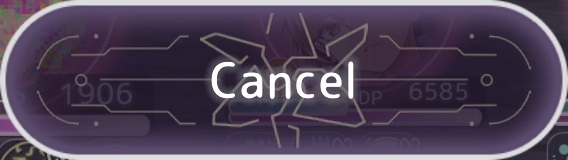
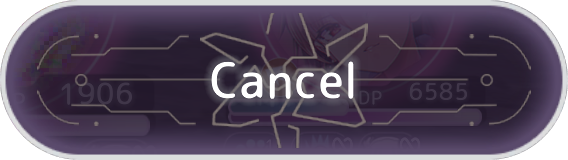
feat: ocr improvements to support alpha channel

diff --git a/standard/utils/PrintScreenUtil.py b/standard/utils/PrintScreenUtil.py
@@ -38,8 +38,18 @@ def find_target_on_screen(target_img, dx, dy, d_width, d_height):
         print("❌ Loaded target image data is empty")
         return False
 
-    # Perform template matching using OpenCV
-    result = cv2.matchTemplate(screenshot, target_img, cv2.TM_CCOEFF_NORMED)
+    # Check if the template has an alpha channel (4 channels) safely
+    if len(target_img.shape) == 3 and target_img.shape[2] == 4:
+        # Split channels: BGR color layers and the Alpha transparency mask layer
+        template_color = cv2.cvtColor(target_img, cv2.COLOR_BGRA2BGR)
+        mask = target_img[:, :, 3]
+        
+        # Match using the transparency mask layout
+        result = cv2.matchTemplate(screenshot, template_color, cv2.TM_CCOEFF_NORMED, mask=mask)
+    else:
+        # Fallback regular match if the image has no alpha layer
+        result = cv2.matchTemplate(screenshot, target_img, cv2.TM_CCOEFF_NORMED)
+
     min_val, max_val, min_loc, max_loc = cv2.minMaxLoc(result)
 
     if max_val >= 0.8:

diff --git a/standard/utils/ComparePicUtil.py b/standard/utils/ComparePicUtil.py
@@ -3,14 +3,13 @@ import cv2
 from standard.utils import PrintScreenUtil
 
 # Pre-load the target images into RAM memory exactly once when the module imports
-START_BUTTON_IMG = cv2.imread("static/startActionButton.png", cv2.IMREAD_COLOR)
-BATTLE_RESULT_IMG = cv2.imread("static/battleResultIcon.png", cv2.IMREAD_COLOR)
-OVERDRIVE_READY_IMG = cv2.imread("static/overdriveCancel.png", cv2.IMREAD_COLOR)
+START_BUTTON_IMG = cv2.imread("static/startActionButton.png", cv2.IMREAD_UNCHANGED)
+BATTLE_RESULT_IMG = cv2.imread("static/battleResultIcon.png", cv2.IMREAD_UNCHANGED)
+OVERDRIVE_READY_IMG = cv2.imread("static/overdriveCancel.png", cv2.IMREAD_UNCHANGED)
 
 def wait_for_friend_round():
     flag = True
     while flag:
-        # Pass the pre-loaded image variable directly
         if not PrintScreenUtil.find_target_on_screen(START_BUTTON_IMG, 2196, 1021, 310, 308):
             time.sleep(1)
         else:
